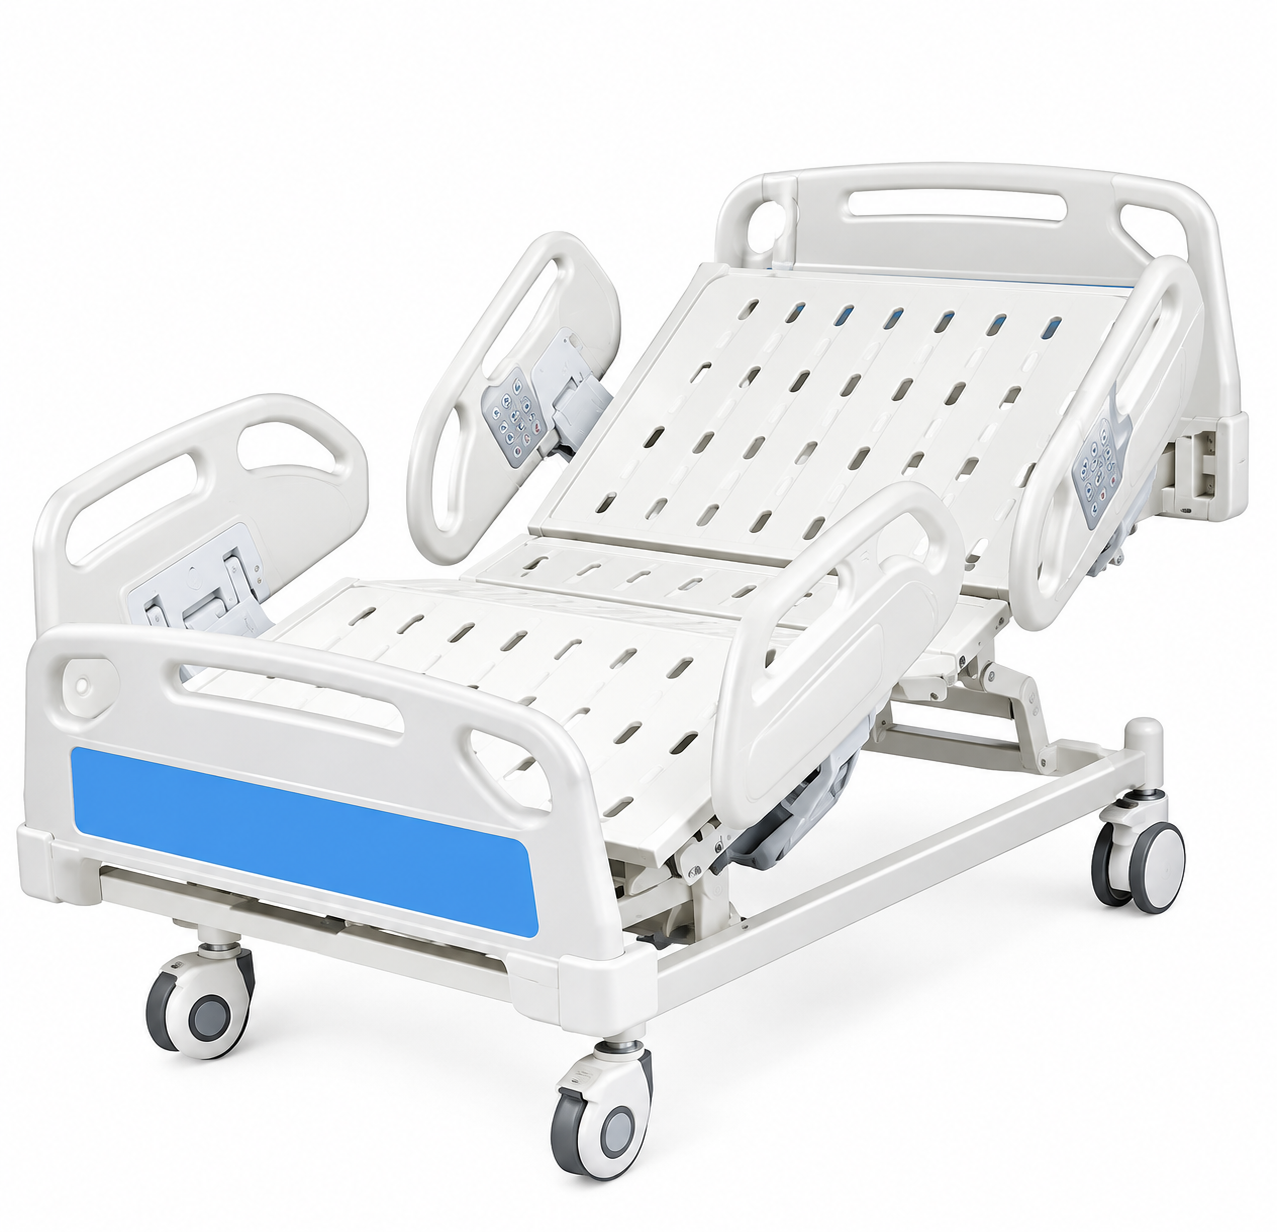
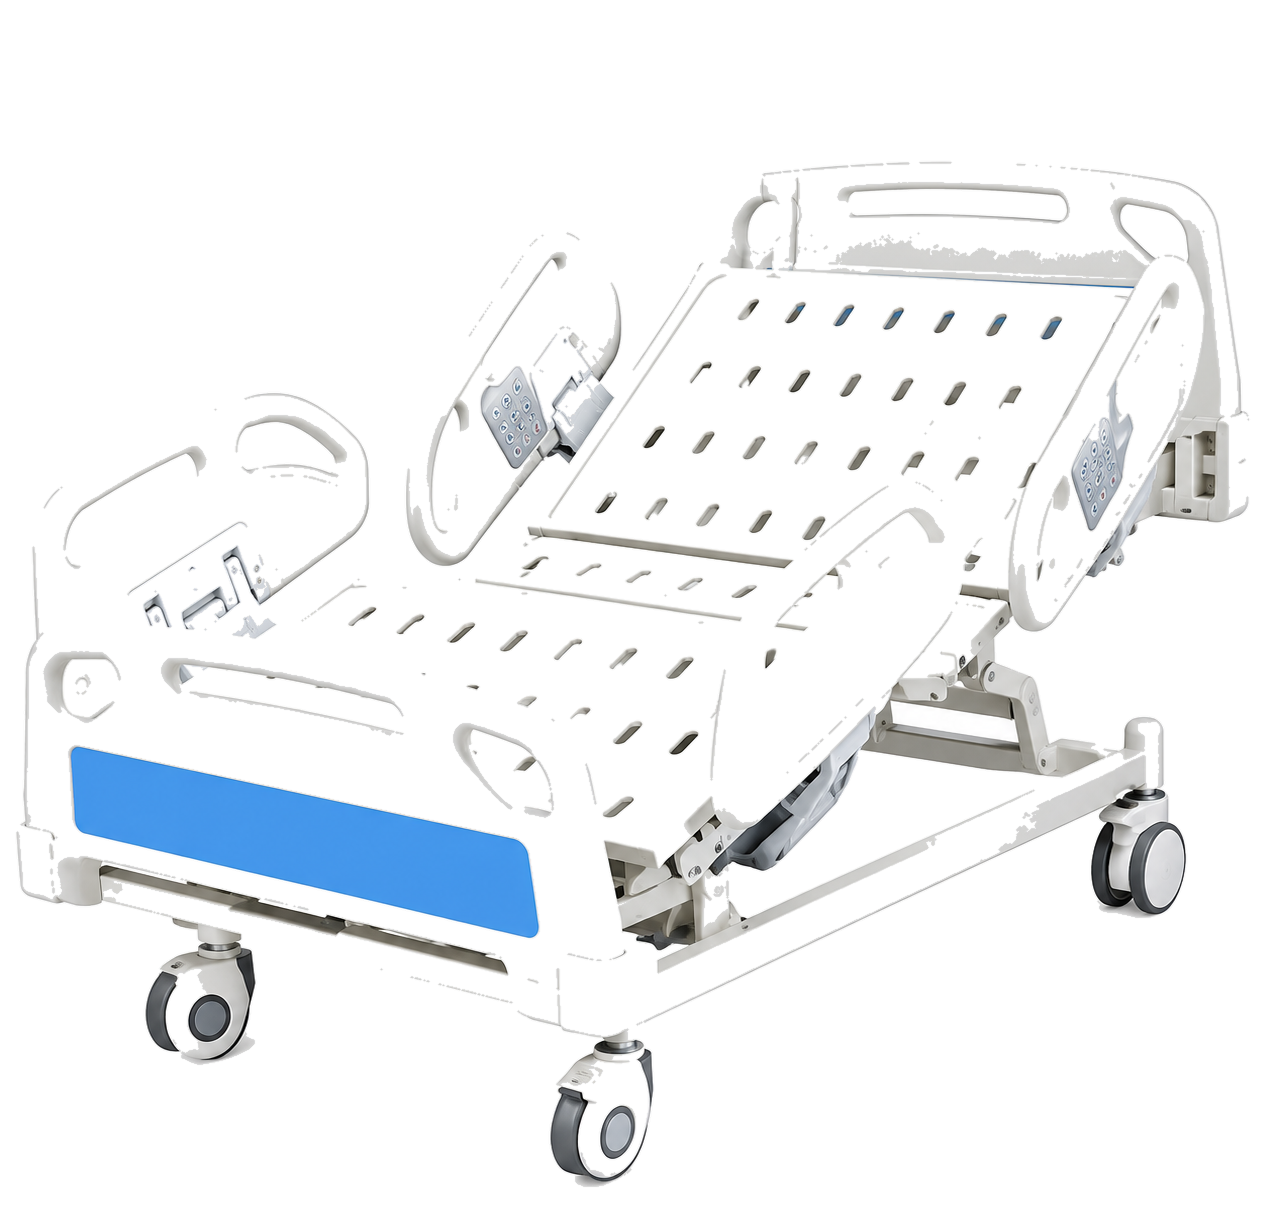
image bg

diff --git a/index.html b/index.html
@@ -26,7 +26,7 @@
   <link rel="stylesheet" href="https://cdnjs.cloudflare.com/ajax/libs/font-awesome/6.5.1/css/all.min.css" integrity="sha512-DTOQO9RWCH3ppGqcWaEA1BIZOC6xxalwEsw9c2QQeAIftl+Vegovlnee1c9QX4TctnWMn13TZye+giMm8e2LwA==" crossorigin="anonymous" referrerpolicy="no-referrer">
   <link href="assets/vendor/swiper/swiper-bundle.min.css" rel="stylesheet">
   
-  <link href="assets/css/apple-theme.css?v=89.0" rel="stylesheet">
+  <link href="assets/css/apple-theme.css?v=90.0" rel="stylesheet">
   <link rel="icon" type="image/png" href="assets/img/favicon.png">
   <link rel="apple-touch-icon" href="assets/img/apple-touch-icon.png">
 </head>
@@ -611,7 +611,7 @@
             <a href="catalogue/patient-monitor/index.html" class="apple-link">Patient Monitors <i class="bi bi-chevron-right"></i></a>
           </div>
           <div class="apple-promo-media">
-            <img src="assets/img/hero-slides/4.png" alt="ICU Life Support Ventilator" loading="lazy">
+            <img src="assets/img/hero-slides/4.png?v=14.0" alt="ICU Life Support Ventilator" loading="lazy">
           </div>
         </div>
 
@@ -625,7 +625,7 @@
             <a href="catalogue/index.html" class="apple-link">Surgical Range <i class="bi bi-chevron-right"></i></a>
           </div>
           <div class="apple-promo-media">
-            <img src="assets/img/hero-slides/1.jpg" alt="Surgical OT Equipment" loading="lazy">
+            <img src="assets/img/hero-slides/1.png?v=14.0" alt="Surgical OT Equipment" loading="lazy">
           </div>
         </div>
 
@@ -653,7 +653,7 @@
             <a href="turnkey-projects/index.html" class="apple-link">Imaging Suites <i class="bi bi-chevron-right"></i></a>
           </div>
           <div class="apple-promo-media">
-            <img src="assets/img/hero-slides/2.png" alt="Diagnostic Imaging Systems" loading="lazy">
+            <img src="assets/img/hero-slides/2.png?v=14.0" alt="Diagnostic Imaging Systems" loading="lazy">
           </div>
         </div>
 

diff --git a/assets/css/apple-theme.css b/assets/css/apple-theme.css
@@ -1548,10 +1548,12 @@ body.apple-mobile-menu-open .apple-mobile-drawer {
   border-radius: 16px;
   overflow: hidden;
   height: 200px;
-  background: #0B132B;
+  background: radial-gradient(circle at 50% 50%, rgba(0, 163, 255, 0.08) 0%, rgba(11, 19, 43, 0.95) 100%);
+  border: 1px solid rgba(255, 255, 255, 0.08);
   display: flex;
   align-items: center;
   justify-content: center;
+  position: relative;
 }
 
 .apple-promo-media img {
@@ -1561,8 +1563,14 @@ body.apple-mobile-menu-open .apple-mobile-drawer {
   transition: transform 0.4s ease;
 }
 
+.apple-promo-media img[src*=".png"] {
+  object-fit: contain !important;
+  padding: 12px !important;
+  filter: drop-shadow(0 10px 24px rgba(0, 0, 0, 0.6));
+}
+
 .apple-promo-card:hover .apple-promo-media img {
-  transform: scale(1.04);
+  transform: scale(1.05);
 }
 
 /* 2. Certifications Marquee Track */
